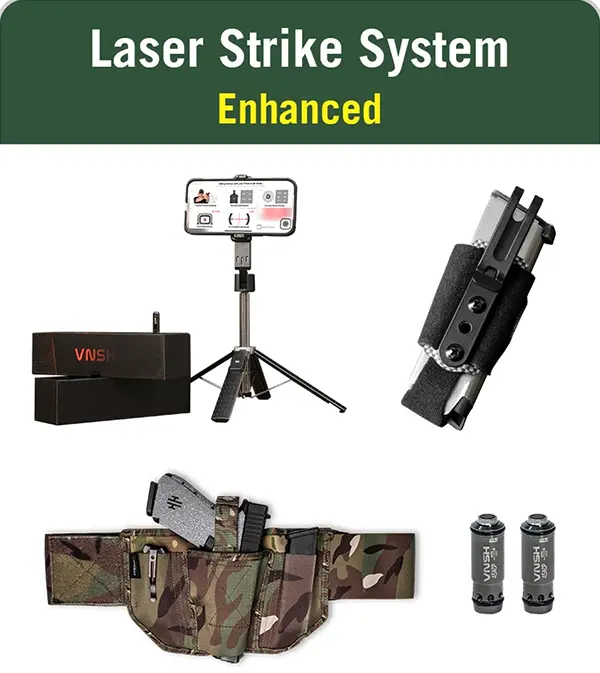
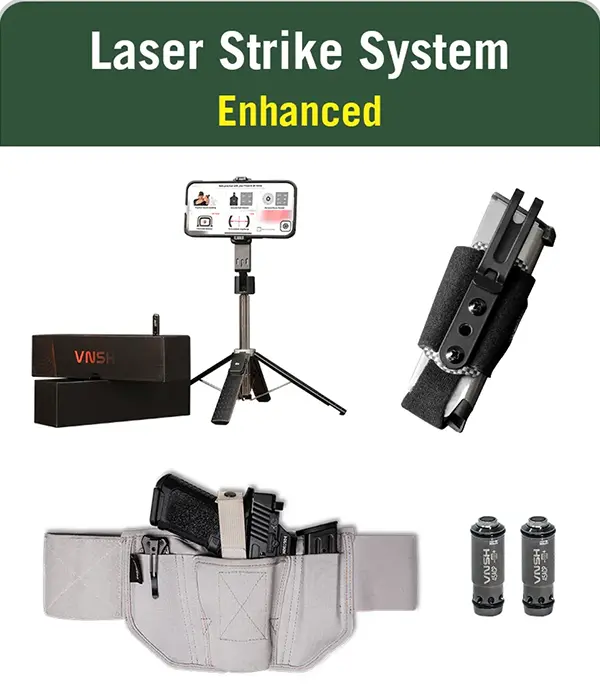
Updated content

diff --git a/src/components/PackageSelection/PackageSelection.tsx b/src/components/PackageSelection/PackageSelection.tsx
@@ -38,13 +38,13 @@ const PackageSelection: React.FC = () => {
               <ul className="list-none p-0 m-0">
                 <li className="flex items-start bg-black text-white px-3 py-0.5 rounded mb-2">
                   <span className="text-white mr-2 text-base">+</span>
-                  <span className="text-base">FREE VNSH Holster - Camo</span>
+                  <span className="text-base">FREE VNSH Holster - Gray</span>
                 </li>
               </ul>
             </div>
             <div className="mt-auto">
               <a
-                href={getCheckoutUrl('https://secure.vnsh.com/vnlsfchgbbtrnhy/starter-checkout')}
+                href={getCheckoutUrl('https://secure.vnsh.com/vnlsfghgbbtrnhy/starter-checkout')}
                 target="_self"
                 rel="noopener noreferrer"
                 className="block w-full"
@@ -106,7 +106,7 @@ const PackageSelection: React.FC = () => {
                 </li>
                 <li className="flex items-start bg-black text-white px-3 py-0.5 rounded mb-2">
                   <span className="text-white mr-2 text-base">+</span>
-                  <span className="text-base">FREE VNSH Holster - Camo</span>
+                  <span className="text-base">FREE VNSH Holster - Gray</span>
                 </li>
                 <li className="flex items-start bg-black text-white px-3 py-0.5 rounded mb-2">
                   <span className="text-white mr-2 text-base">+</span>
@@ -121,7 +121,7 @@ const PackageSelection: React.FC = () => {
 
             <div className="mt-auto">
               <a
-                href={getCheckoutUrl('https://secure.vnsh.com/vnlsfchgbbtrnhy/advanced-checkout')}
+                href={getCheckoutUrl('https://secure.vnsh.com/vnlsfghgbbtrnhy/advanced-checkout')}
                 target="_self"
                 rel="noopener noreferrer"
                 className="block w-full"
@@ -186,14 +186,14 @@ const PackageSelection: React.FC = () => {
                 </li>
                 <li className="flex items-start bg-black text-white px-3 py-0.5 rounded">
                   <span className="text-white mr-2 text-base">+</span>
-                  <span className="text-base">FREE VNSH Holster - Camo</span>
+                  <span className="text-base">FREE VNSH Holster - Gray</span>
                 </li>
               </ul>
             </div>
 
             <div className="mt-auto">
               <a
-                href={getCheckoutUrl('https://secure.vnsh.com/vnlsfchgbbtrnhy/enhanced-checkout')}
+                href={getCheckoutUrl('https://secure.vnsh.com/vnlsfghgbbtrnhy/enhanced-checkout')}
                 target="_self"
                 rel="noopener noreferrer"
                 className="block w-full"

diff --git a/src/components/Content/Content.tsx b/src/components/Content/Content.tsx
@@ -298,8 +298,8 @@ const Content: React.FC = () => {
           </div>
           <div className="w-full md:w-[85%] mx-auto max-w-[1120px] px-0 md:px-0 md:py-5">
             <Image
-              src="/contentimages/VNSH-BlackHolster-BlockImages-V2-Desktop.webp"
-              alt="VNSH Black Holster"
+              src="/contentimages/VNSH-GrayHolster-BlockImages-V2-Desktop.webp"
+              alt="VNSH Gray Holster"
               className="w-full h-auto"
               width={1120}
               height={600}
